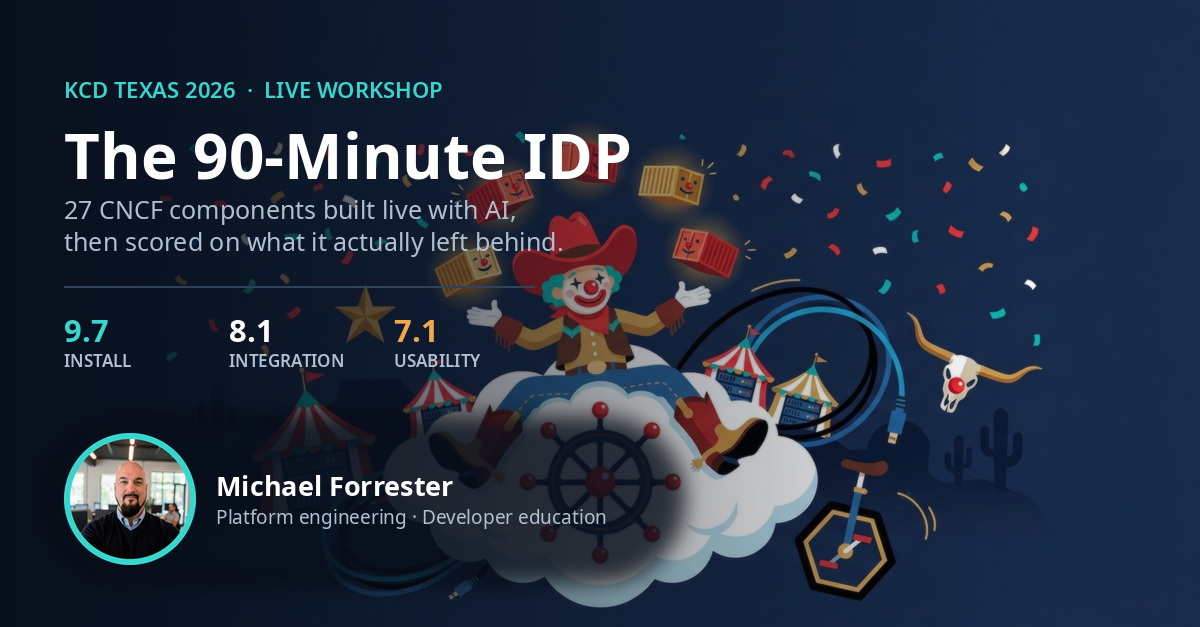
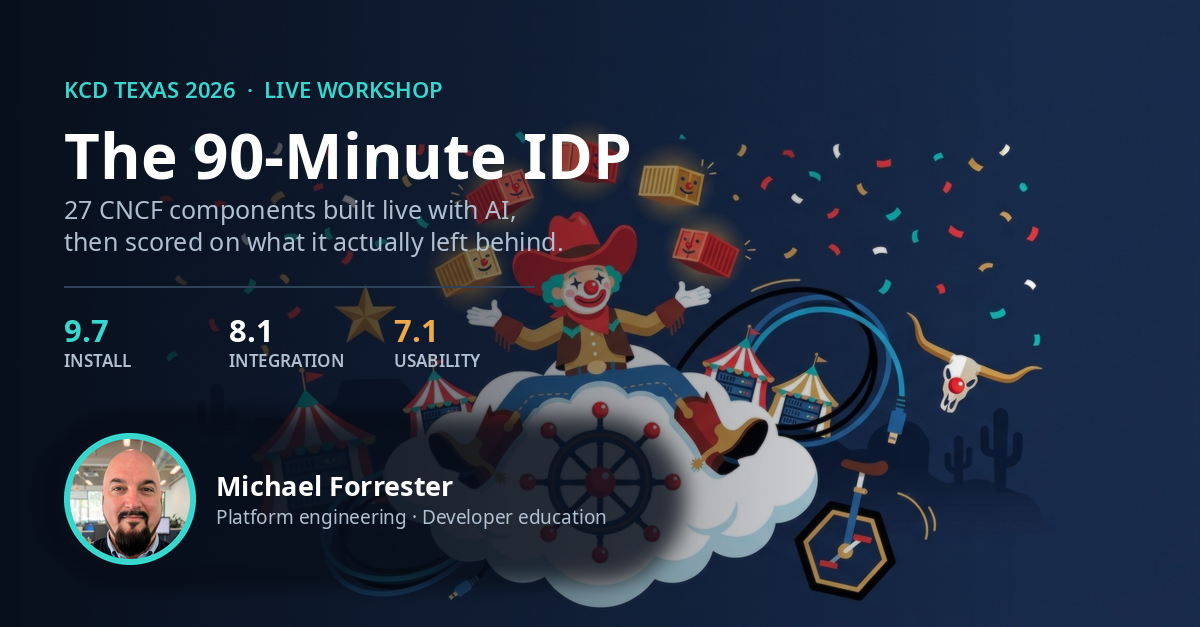
Use the primary headshot and crop the portrait to the face
Rebuild both LinkedIn cards from Michael_forrester_primary_headshot.jpeg, the
designated primary, replacing the April Atlanta shot picked up earlier.

Add portrait_crop(). A plain centre-crop of a square headshot keeps the ceiling
and the shoulders, so once the photo is scaled into a 132px circle the face is
small and hard to read at feed size. Take a square 62% of the short edge,
centred horizontally and biased up the frame to sit around the eye line.

Changed region(s): [[0.0617, 0.697, 0.185, 0.9091]]

diff --git a/scripts/build-linkedin-hero.py b/scripts/build-linkedin-hero.py
@@ -43,11 +43,34 @@ def cover_crop(im: Image.Image, w: int, h: int) -> Image.Image:
     return im.crop((left, top, left + w, top + h))
 
 
+def portrait_crop(im: Image.Image, zoom: float = 0.62, eye_line: float = 0.42) -> Image.Image:
+    """Crop a square around the subject's head.
+
+    A plain centre-crop of a typical headshot keeps ceiling and shoulders, which
+    leaves the face tiny once it is scaled into a small circle. Take a square a
+    fraction of the short edge, centred horizontally and biased up the frame.
+
+    Args:
+        im: Source photo.
+        zoom: Side of the crop square as a fraction of the shorter edge.
+        eye_line: Vertical centre of the crop as a fraction of image height.
+
+    Returns:
+        The cropped square, clamped to stay inside the source.
+    """
+    side = round(min(im.width, im.height) * zoom)
+    cx = im.width // 2
+    cy = round(im.height * eye_line)
+    left = max(0, min(cx - side // 2, im.width - side))
+    top = max(0, min(cy - side // 2, im.height - side))
+    return im.crop((left, top, left + side, top + side))
+
+
 def circular(im: Image.Image, size: int, ring: int = 6, ring_color=TEAL) -> Image.Image:
     """Circle-crop a photo and draw a ring around it, at 4x for clean edges."""
     ss = 4
     inner = size - ring * 2
-    photo = cover_crop(im, inner * ss, inner * ss)
+    photo = cover_crop(portrait_crop(im), inner * ss, inner * ss)
 
     mask = Image.new("L", (inner * ss, inner * ss), 0)
     ImageDraw.Draw(mask).ellipse((0, 0, inner * ss - 1, inner * ss - 1), fill=255)
